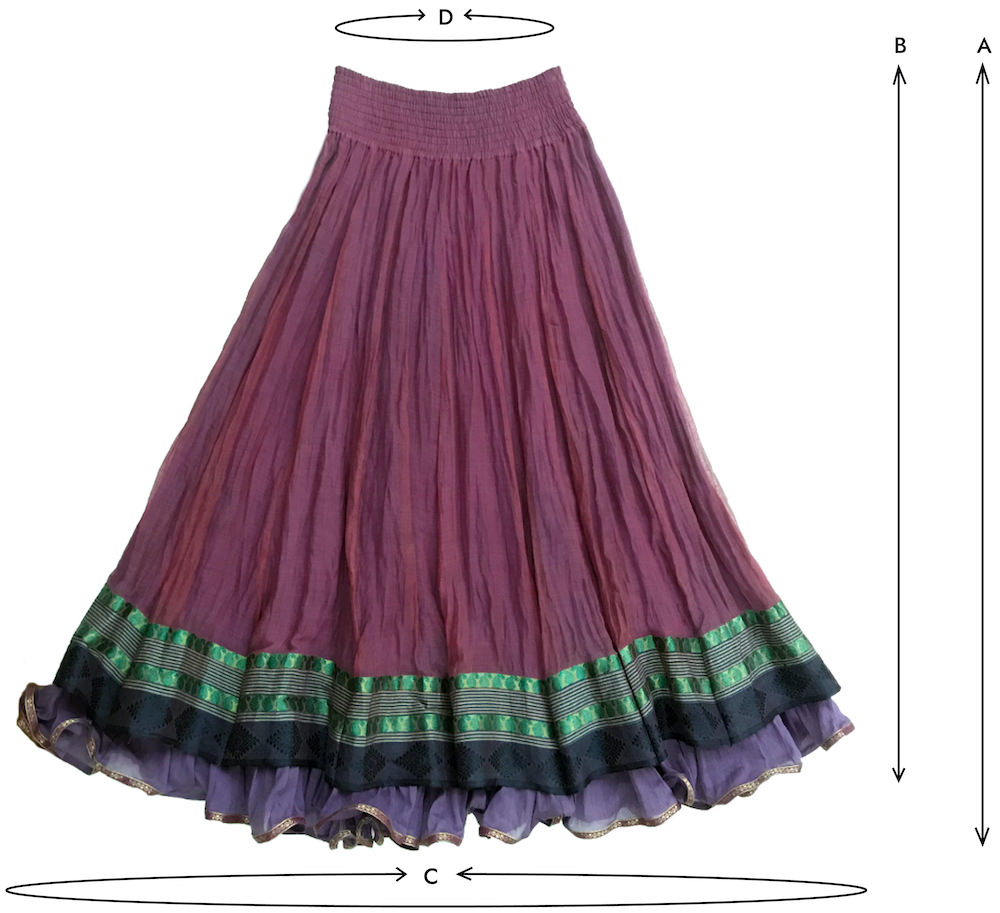
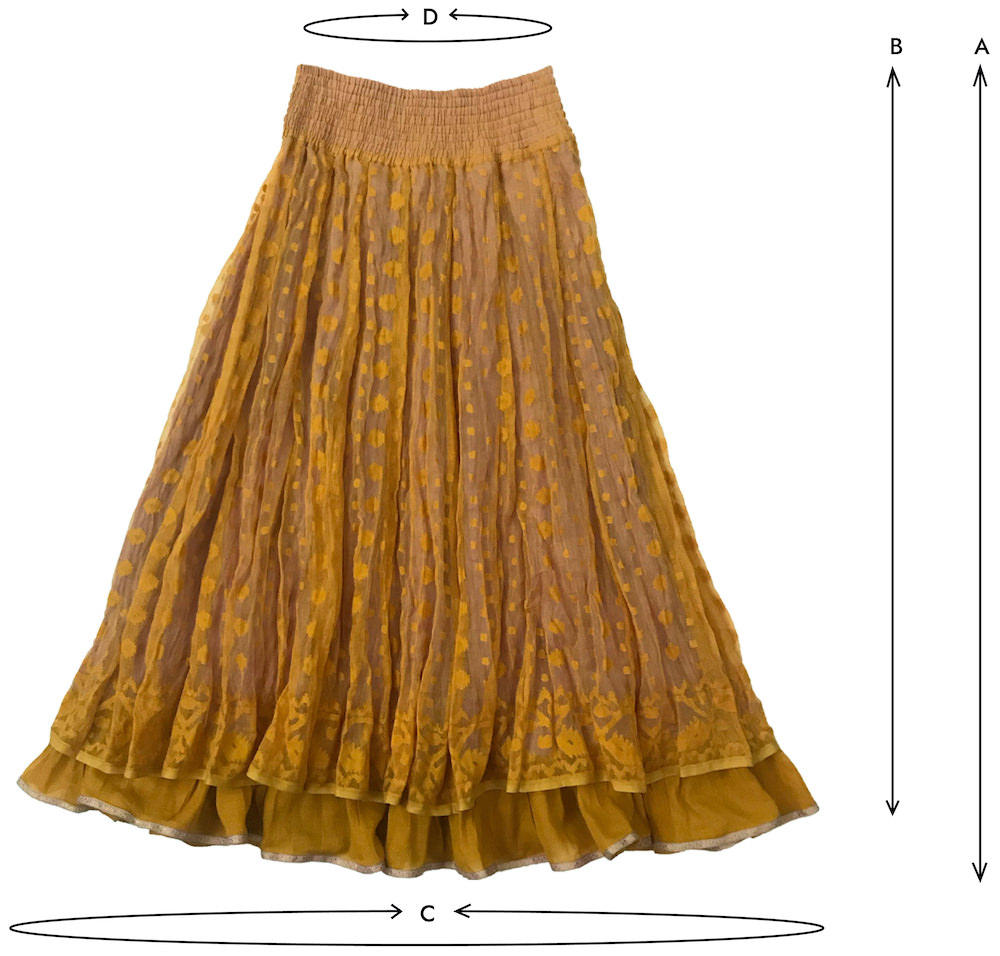
updated minuit product images.

diff --git a/products/artwear/naksha.html b/products/artwear/naksha.html
@@ -1,1 +1,1 @@
-<!doctype html><html lang="en"><head><meta charset="utf-8"><meta http-equiv="X-UA-Compatible" content="IE=edge"><meta name="viewport" content="width=device-width,initial-scale=1,shrink-to-fit=no"><meta http-equiv="cache-control" content="no-cache"><meta name="description" content="Our Art Wear Naksha Skirt. Each piece is one of a kind."><meta name="keywords" content="skirt, vintage sari border, fabric art, artwear, women's wear , Prema Florece Isaac, fashion designer, creator, stylist, Auroville, Pondicherry, atelier, ethical fashion, Jamdani, Tangail, Rangoli Atelier, since 1999, handloom, conscious fashion, sustainable fashion, handmadewithlove, indo-european fusion, slow fashion, distinctive designs, fusion flair, textile treasures, Couture-sur-Mesure, bespoke tailoring"><title>Artwear Naksha Skirt</title><link rel="stylesheet" href="https://indestructibletype.com/fonts/Jost.css" type="text/css" charset="utf-8"><link href="/shopper-1.0.3/css/theme.min.css" rel="stylesheet"><link href="/js/pfi20061302.css" rel="stylesheet"><script type="text/javascript" src="/js/pfiglobs20061802.js"></script><script type="text/javascript" src="/js/pfitmpl20062101.js"></script><script type="text/javascript" src="/nc/pfifx20.js"></script><script type="text/javascript" src="/js/pfishop20061800.js"></script><script type="text/javascript" src="/js/pfiprod20062103.js"></script><script src="https://code.jquery.com/jquery-3.5.1.min.js" integrity="sha256-9/aliU8dGd2tb6OSsuzixeV4y/faTqgFtohetphbbj0=" crossorigin="anonymous"></script><script async src="https://www.googletagmanager.com/gtag/js?id=UA-71666497-1"></script><script>function gtag(){dataLayer.push(arguments)}window.dataLayer=window.dataLayer||[],gtag("js",new Date),gtag("config","UA-71666497-1"),gtag("config","AW-861963921"),gtag("event","view_item");</script><script>!function(e,n,t,c,o,a,f){e.fbq||(o=e.fbq=function(){o.callMethod?o.callMethod.apply(o,arguments):o.queue.push(arguments)},e._fbq||(e._fbq=o),o.push=o,o.loaded=!0,o.version="2.0",o.queue=[],(a=n.createElement(t)).async=!0,a.src="//connect.facebook.net/en_US/fbevents.js",(f=n.getElementsByTagName(t)[0]).parentNode.insertBefore(a,f))}(window,document,"script"),fbq("init","1001909426539960"),fbq("track","PageView"),fbq("track","ViewContent");</script><link rel="stylesheet" href="/shopper-1.0.3/libs/flickity/dist/flickity.min.css"><link rel="stylesheet" href="/shopper-1.0.3/libs/@fancyapps/fancybox/dist/jquery.fancybox.min.css"><link rel="stylesheet" href="/shopper-1.0.3/libs/flickity-fade/flickity-fade.css"></head><body><script>function loadShopWithParam(){let n=new URLSearchParams(window.location.search);var o=n.has("cur")?n.get("cur"):null;return loadShop(o)}function onDocumentReady(){pageComponent.init(loadShopWithParam()),pageComponent.onReadyState()}function onSelectionChange(){pageComponent.onSelectionChange()}function onColourCategoryChange(n){pageComponent.onColourCategoryChange(n)}function onUnitChange(){pageComponent.onUnitChange(dimensioner)}function onSKUChange(n){pageComponent.onSKUChange(n)}</script><script>var pg_blacklist=["/products/artwear/naksha.html"];</script><script>document.write(getShopHeader());</script><script>document.write(pfiTopMenu("/products/artwear/naksha.html"));</script><div class="container"><script>document.write(getShopTop());</script><script type="text/javascript" src="skirts/nklist20062001.js"></script><script>const washcareHTML="<ul><li>Do not soak</li><li>Hand Wash</li><li>Mild Detergent</li><li>Do Not Bleach</li><li>Dry In Shade</li><li>No Need to Iron</li><li>Follow this tie-up procedure to maintain the crushed look-and-feel</li></ul>",shippingHTML=getShippingInfoUL(["If the item is in stock, it will be ready to ship within 1 business day of your order."]);function createSKUs(e){return{factory:e,data:[{SKU:"NKSHMU1501PP",text:"Minuit",image:"minuitL",pxWidth:"65"},{SKU:"NKSHMD1501PP",text:"Midi",image:"midiL1",pxWidth:"59.28"},{SKU:"NKSHMI1501PP",text:"Mini",image:"miniL2",pxWidth:"48.88"},{SKU:"NKSHMC1512PP",text:"Micro",image:"microL2",pxWidth:"47.58"}],getImage:function(e){var t=this.data[e];return{url:this.factory.base+t.image+".jpg"}}}}function createSKUSelector(e){return{skus:e,divId:"skuSelector",skuRadioName:"skuRadio",getSKUIdx:function(e){for(var t=0;t<this.skus.data.length;t++){if(this.skus.data[t].SKU==e)return t}return-1},getSelectedSKU:function(){return $("input[name='"+this.skuRadioName+"']:checked").val()},createSKUPanel:function(e,t){for(var a='<div class="mb-4 ml-n1">',r=0;r<this.skus.data.length;r++){var i=this.skus.data[r];a+='<div class="custom-control custom-control-inline custom-control-img"><input type="radio" onclick="onSKUChange(\''+i.SKU+'\')" class="custom-control-input" id="'+e+r+'" name="'+e+'" value="'+i.SKU+'"'+(t==r?" checked":"")+'><label class="custom-control-label" for="'+e+r+'" style="width: '+i.pxWidth+'px"><img class="img-fluid" src="'+this.skus.getImage(r).url+'"></label></div>'}return a+="</div>"},createDiv:function(e){var t='<form id="'+this.divId+'"><div class="row align-items-center">';return t+='<div class="col-12 text-center"><figure>'+this.createSKUPanel(this.skuRadioName,e)+"</figure></div></div></form>"}}}var carouselFn={NKSHMC1512PP:createSquareImageCarousel,NKSHMI1501PP:createSquareImageCarousel,NKSHMD1501PP:createSquareImageCarousel,NKSHMU1501PP:createPortraitImageCarousel};function createNakshaCardCreator(e){return{carouselFn:carouselFn[e],colClasses:"col-12 col-sm-6",createCard:function(e,t,a){var r='<div class="card mb-2">';return r+='<div class="row"><div class="col-12"><div class="form-row mb-4">'+this.carouselFn(e,t).createImageCarousel()+"</div></div></div>",r+='<div class="card-body px-0 pt-2 pb-4 text-center">',r+='<div class="card-subtitle mb-3"><span>'+a+"</span></div>",r+=createAddToCartButton(t),r+="</div></div>"},updateCard(e,t){this.carouselFn(e,t).update()},getEmptyStatusHTML:function(){return'<div class="alert alert-info" role="alert">There are no skirts that match your requirements.</div>'}}}function createUICFactory(e,t,a,r,i){var o=createSKUSelector(createSKUs(e));return{factory:e,colSelData:t,prodDataFactoryFn:a,skuSelector:o,browseInfo:r,sizingChart:i,createGenerator:function(e){var t=this.factory.createSKU(e),a=this.prodDataFactoryFn(e),r=createUIProductJSON(e,t.base,a,this.sizingChart[e]),i=createHTMLViewer(o.createDiv(o.getSKUIdx(e))),s=createHTMLViewer(r.skuInfo.garmentDetails),n=this.browseInfo.getStoryViewer();return createComponentGenerator(t,r,{createPre:function(){return i},create:function(){return createCatenatedViewer([s,n])}},this.colSelData,!1,createNakshaCardCreator(e))},updateURL:function(t){var a=e.encoder,r=e.urlModifier,i=a.toCode(t);r.updateURL(i)}}}const styDimensionsCm={NKSHMC1512PP:{Free:[52,45,240,72,90]},NKSHMI1501PP:{Free:[62,53,336,72,130]},NKSHMD1501PP:{Free:[81,72,376,72,130]},NKSHMU1501PP:{Free:[102,93,392,72,130]}},nkshSizing={NKSHMC1512PP:{sizeGeo:["US","UK","EU","IT","GR","JP","RU"],capGeo:["US","UK / AU / NZ","EU / FR","IT","DE","JP","RU"],chart:{Free:{US:[6,14],UK:[10,18],EU:[38,46],IT:[42,50],GR:[36,44],JP:[11,19],RU:[44,52]}}},NKSHMI1501PP:{sizeGeo:["US","UK","EU","IT","GR","JP","RU"],capGeo:["US","UK / AU / NZ","EU / FR","IT","DE","JP","RU"],chart:{Free:{US:[6,30],UK:[10,34],EU:[38,52],IT:[42,56],GR:[36,50],JP:[11,25],RU:[44,58]}}},NKSHMD1501PP:{sizeGeo:["US","UK","EU","IT","GR","JP","RU"],capGeo:["US","UK / AU / NZ","EU / FR","IT","DE","JP","RU"],chart:{Free:{US:[6,30],UK:[10,34],EU:[38,52],IT:[42,56],GR:[36,50],JP:[11,25],RU:[44,58]}}},NKSHMU1501PP:{sizeGeo:["US","UK","EU","IT","GR","JP","RU"],capGeo:["US","UK / AU / NZ","EU / FR","IT","DE","JP","RU"],chart:{Free:{US:[6,30],UK:[10,34],EU:[38,52],IT:[42,56],GR:[36,50],JP:[11,25],RU:[44,58]}}}};var nkshVariants={NKSHMC1512PP:{vid:"AW",images:["1.1","1.1a","1b","1c"]},NKSHMI1501PP:{vid:"AW",images:["1","1a","1b","1c"]},NKSHMD1501PP:{vid:"AW",images:["20","20a","20b","20c"]},NKSHMU1501PP:{vid:"AW",images:["8.1","8.1a","8b","8c"]}};function createProdData(e){return{imageFile:"sizing.jpg",dimensionNames:["A. Length","B. Outer Layer Length","C. Hem","D. Waist - Relaxed","D. Waist - Stretched"],dimensionsCm:styDimensionsCm[e],data:[nkshVariants[e]],sizes:["Free"],description:'<p>Almost from the <a href="/journey/salsa.html">earliest days of my atelier</a>, The Naksha skirt has been my signature piece of <a href="/journey/artwear.html">ArtWear</a>, and an evergreen favourite with clients. It is available in 4 lengths - Micro, Mini, Midi and Minuit.</p><p>As the name suggests, each ArtWear Naksha is a <strong>one-of-a-kind</strong> piece, <strong>unique and exclusive.</strong></p><p>The perfect fusion of traditional Tangail textile in a modern western silhouette, the Naksha is a multi-paneled, crushed skirt. Made of sheer 100% cotton fabrics, the skirt offers comfort, playfulness and complete freedom of movement. It suits every age group from teenagers (we even have a kids\' Naksha) to seniors. It can be worn with a variety of tops and t-shirts and is suitable for a range of occasions.</p><p>Each Artwear Naksha skirt is cut from a single Tangail / Jamdani sari. The skirt is lined with a harmonizing hue of translucent Voile de Coton to create my signature light-layer effect. It is made up of 16 fabric panels (12 on the Micro) which adds a lot of volume and flare. Because of the way the panels are cut, only 1 Minuit, Midi or Mini can be created from a single sari.</p><p>The waist band is made up of 9 rows of elastic (6 rows on the Micro). Because of the need for care while working with the delicate Tangail fabric, it can take a skilled tailor almost a full day of work to create this waistband. The result is a snug, comfortable fit, for a range of waist measurements.</p>',garmentDetails:""}}var browseInfo=createBrowseInfo([[[origin,"/journey/artwear.html"],[origin,"/journey/salsa.html"],[clients,"/people/resortwear.html"]],[[clients,"/people/artwear.html"],[clients,"/people/curators.html"]]],[1,1],pg_blacklist);pg_blacklist=pg_blacklist.concat(browseInfo.getFlattenedURLs());var nakshaFactory=createNakshaSKUsFactory("/products/artwear/skirts/"),uicFactory=createUICFactory(nakshaFactory,createColSelData("/products/artwear/skirts/",[{colourName:"Neutral",image:"neutral"},{colourName:"Purple to Yellow",image:"v-to-y"},{colourName:"Green to Violet",image:"g-to-i"}]),createProdData,browseInfo,nkshSizing),c=nakshaFactory.urlModifier.getCodeOrDefault();nakshaFactory.urlModifier.updateURL(c);var sku=nakshaFactory.encoder.toSKU(c),icGen=uicFactory.createGenerator(sku),itemsComponent=icGen.createUIC(loadShopWithParam()),itemCategorySelector=itemsComponent.itemCategorySelector,sizeSelector=itemsComponent.sizeSelector;const pageComponent=createUIPageComponent(getProductCatalog(),itemsComponent,uicFactory);var productComponent=itemsComponent.productComponent,dimensioner=productComponent.sizePanelr.dimensioner;$(document).ready(onDocumentReady),document.write(productComponent.getSizeModal());</script><section><div class="container"><script>document.write(productComponent.createProductDiv(0,0));</script></div></section><h6>Buy Now</h6><p>These are the individual skirts that are currently available for sale. Use the colour selector to look for specific matching colours.</p><form><div class="row align-items-center"><div class="col-12 col-md-4 text-center"><script>document.write(sizeSelector.createDiv(0));</script></div><div class="col-12 col-md-8 text-center"><script>document.write(itemCategorySelector.createDiv(itemCategorySelector.categories.getFirstNonEmptyIdx(),0));</script></div></div></form><script>document.write(itemsComponent.createDiv());</script><script>document.write(renderProductDetails("<p>"+icGen.prodJSON.skuInfo.description+"</p>",null,washcareHTML,shippingHTML));</script></div><script>document.write(storyBrowser(pg_blacklist));</script><script>document.write(botMenu("/products/artwear/naksha.html"));</script><script>document.write(scriptSrcs());</script><script src="/shopper-1.0.3/libs/@fancyapps/fancybox/dist/jquery.fancybox.min.js"></script><script src="/shopper-1.0.3/libs/flickity/dist/flickity.pkgd.min.js"></script><script src="/shopper-1.0.3/libs/flickity-fade/flickity-fade.js"></script><script src="/shopper-1.0.3/js/theme.min.js"></script></body></html>
+<!doctype html><html lang="en"><head><meta charset="utf-8"><meta http-equiv="X-UA-Compatible" content="IE=edge"><meta name="viewport" content="width=device-width,initial-scale=1,shrink-to-fit=no"><meta http-equiv="cache-control" content="no-cache"><meta name="description" content="Our Art Wear Naksha Skirt. Each piece is one of a kind."><meta name="keywords" content="skirt, vintage sari border, fabric art, artwear, women's wear , Prema Florece Isaac, fashion designer, creator, stylist, Auroville, Pondicherry, atelier, ethical fashion, Jamdani, Tangail, Rangoli Atelier, since 1999, handloom, conscious fashion, sustainable fashion, handmadewithlove, indo-european fusion, slow fashion, distinctive designs, fusion flair, textile treasures, Couture-sur-Mesure, bespoke tailoring"><title>Artwear Naksha Skirt</title><link rel="stylesheet" href="https://indestructibletype.com/fonts/Jost.css" type="text/css" charset="utf-8"><link href="/shopper-1.0.3/css/theme.min.css" rel="stylesheet"><link href="/js/pfi20061302.css" rel="stylesheet"><script type="text/javascript" src="/js/pfiglobs20061802.js"></script><script type="text/javascript" src="/js/pfitmpl20062101.js"></script><script type="text/javascript" src="/nc/pfifx20.js"></script><script type="text/javascript" src="/js/pfishop20061800.js"></script><script type="text/javascript" src="/js/pfiprod20062103.js"></script><script src="https://code.jquery.com/jquery-3.5.1.min.js" integrity="sha256-9/aliU8dGd2tb6OSsuzixeV4y/faTqgFtohetphbbj0=" crossorigin="anonymous"></script><script async src="https://www.googletagmanager.com/gtag/js?id=UA-71666497-1"></script><script>function gtag(){dataLayer.push(arguments)}window.dataLayer=window.dataLayer||[],gtag("js",new Date),gtag("config","UA-71666497-1"),gtag("config","AW-861963921"),gtag("event","view_item");</script><script>!function(e,n,t,c,o,a,f){e.fbq||(o=e.fbq=function(){o.callMethod?o.callMethod.apply(o,arguments):o.queue.push(arguments)},e._fbq||(e._fbq=o),o.push=o,o.loaded=!0,o.version="2.0",o.queue=[],(a=n.createElement(t)).async=!0,a.src="//connect.facebook.net/en_US/fbevents.js",(f=n.getElementsByTagName(t)[0]).parentNode.insertBefore(a,f))}(window,document,"script"),fbq("init","1001909426539960"),fbq("track","PageView"),fbq("track","ViewContent");</script><link rel="stylesheet" href="/shopper-1.0.3/libs/flickity/dist/flickity.min.css"><link rel="stylesheet" href="/shopper-1.0.3/libs/@fancyapps/fancybox/dist/jquery.fancybox.min.css"><link rel="stylesheet" href="/shopper-1.0.3/libs/flickity-fade/flickity-fade.css"></head><body><script>function loadShopWithParam(){let n=new URLSearchParams(window.location.search);var o=n.has("cur")?n.get("cur"):null;return loadShop(o)}function onDocumentReady(){pageComponent.init(loadShopWithParam()),pageComponent.onReadyState()}function onSelectionChange(){pageComponent.onSelectionChange()}function onColourCategoryChange(n){pageComponent.onColourCategoryChange(n)}function onUnitChange(){pageComponent.onUnitChange(dimensioner)}function onSKUChange(n){pageComponent.onSKUChange(n)}</script><script>var pg_blacklist=["/products/artwear/naksha.html"];</script><script>document.write(getShopHeader());</script><script>document.write(pfiTopMenu("/products/artwear/naksha.html"));</script><div class="container"><script>document.write(getShopTop());</script><script type="text/javascript" src="skirts/nklist20062900.js"></script><script>const washcareHTML="<ul><li>Do not soak</li><li>Hand Wash</li><li>Mild Detergent</li><li>Do Not Bleach</li><li>Dry In Shade</li><li>No Need to Iron</li><li>Follow this tie-up procedure to maintain the crushed look-and-feel</li></ul>",shippingHTML=getShippingInfoUL(["If the item is in stock, it will be ready to ship within 1 business day of your order."]);function createSKUs(e){return{factory:e,data:[{SKU:"NKSHMU1501PP",text:"Minuit",image:"minuitL1",pxWidth:"65"},{SKU:"NKSHMD1501PP",text:"Midi",image:"midiL1",pxWidth:"59.28"},{SKU:"NKSHMI1501PP",text:"Mini",image:"miniL2",pxWidth:"48.88"},{SKU:"NKSHMC1512PP",text:"Micro",image:"microL2",pxWidth:"47.58"}],getImage:function(e){var t=this.data[e];return{url:this.factory.base+t.image+".jpg"}}}}function createSKUSelector(e){return{skus:e,divId:"skuSelector",skuRadioName:"skuRadio",getSKUIdx:function(e){for(var t=0;t<this.skus.data.length;t++){if(this.skus.data[t].SKU==e)return t}return-1},getSelectedSKU:function(){return $("input[name='"+this.skuRadioName+"']:checked").val()},createSKUPanel:function(e,t){for(var a='<div class="mb-4 ml-n1">',r=0;r<this.skus.data.length;r++){var i=this.skus.data[r];a+='<div class="custom-control custom-control-inline custom-control-img"><input type="radio" onclick="onSKUChange(\''+i.SKU+'\')" class="custom-control-input" id="'+e+r+'" name="'+e+'" value="'+i.SKU+'"'+(t==r?" checked":"")+'><label class="custom-control-label" for="'+e+r+'" style="width: '+i.pxWidth+'px"><img class="img-fluid" src="'+this.skus.getImage(r).url+'"></label></div>'}return a+="</div>"},createDiv:function(e){var t='<form id="'+this.divId+'"><div class="row align-items-center">';return t+='<div class="col-12 text-center"><figure>'+this.createSKUPanel(this.skuRadioName,e)+"</figure></div></div></form>"}}}var carouselFn={NKSHMC1512PP:createSquareImageCarousel,NKSHMI1501PP:createSquareImageCarousel,NKSHMD1501PP:createSquareImageCarousel,NKSHMU1501PP:createPortraitImageCarousel};function createNakshaCardCreator(e){return{carouselFn:carouselFn[e],colClasses:"col-12 col-sm-6",createCard:function(e,t,a){var r='<div class="card mb-2">';return r+='<div class="row"><div class="col-12"><div class="form-row mb-4">'+this.carouselFn(e,t).createImageCarousel()+"</div></div></div>",r+='<div class="card-body px-0 pt-2 pb-4 text-center">',r+='<div class="card-subtitle mb-3"><span>'+a+"</span></div>",r+=createAddToCartButton(t),r+="</div></div>"},updateCard(e,t){this.carouselFn(e,t).update()},getEmptyStatusHTML:function(){return'<div class="alert alert-info" role="alert">There are no skirts that match your requirements.</div>'}}}function createUICFactory(e,t,a,r,i){var o=createSKUSelector(createSKUs(e));return{factory:e,colSelData:t,prodDataFactoryFn:a,skuSelector:o,browseInfo:r,sizingChart:i,createGenerator:function(e){var t=this.factory.createSKU(e),a=this.prodDataFactoryFn(e),r=createUIProductJSON(e,t.base,a,this.sizingChart[e]),i=createHTMLViewer(o.createDiv(o.getSKUIdx(e))),s=createHTMLViewer(r.skuInfo.garmentDetails),n=this.browseInfo.getStoryViewer();return createComponentGenerator(t,r,{createPre:function(){return i},create:function(){return createCatenatedViewer([s,n])}},this.colSelData,!1,createNakshaCardCreator(e))},updateURL:function(t){var a=e.encoder,r=e.urlModifier,i=a.toCode(t);r.updateURL(i)}}}const styDimensionsCm={NKSHMC1512PP:{Free:[52,45,240,72,90]},NKSHMI1501PP:{Free:[62,53,336,72,130]},NKSHMD1501PP:{Free:[81,72,376,72,130]},NKSHMU1501PP:{Free:[102,93,392,72,130]}},nkshSizing={NKSHMC1512PP:{sizeGeo:["US","UK","EU","IT","GR","JP","RU"],capGeo:["US","UK / AU / NZ","EU / FR","IT","DE","JP","RU"],chart:{Free:{US:[6,14],UK:[10,18],EU:[38,46],IT:[42,50],GR:[36,44],JP:[11,19],RU:[44,52]}}},NKSHMI1501PP:{sizeGeo:["US","UK","EU","IT","GR","JP","RU"],capGeo:["US","UK / AU / NZ","EU / FR","IT","DE","JP","RU"],chart:{Free:{US:[6,30],UK:[10,34],EU:[38,52],IT:[42,56],GR:[36,50],JP:[11,25],RU:[44,58]}}},NKSHMD1501PP:{sizeGeo:["US","UK","EU","IT","GR","JP","RU"],capGeo:["US","UK / AU / NZ","EU / FR","IT","DE","JP","RU"],chart:{Free:{US:[6,30],UK:[10,34],EU:[38,52],IT:[42,56],GR:[36,50],JP:[11,25],RU:[44,58]}}},NKSHMU1501PP:{sizeGeo:["US","UK","EU","IT","GR","JP","RU"],capGeo:["US","UK / AU / NZ","EU / FR","IT","DE","JP","RU"],chart:{Free:{US:[6,30],UK:[10,34],EU:[38,52],IT:[42,56],GR:[36,50],JP:[11,25],RU:[44,58]}}}};var nkshVariants={NKSHMC1512PP:{vid:"AW",images:["1.1","1.1a","1b","1c"]},NKSHMI1501PP:{vid:"AW",images:["1","1a","1b","1c"]},NKSHMD1501PP:{vid:"AW",images:["20","20a","20b","20c"]},NKSHMU1501PP:{vid:"AW",images:["7.2","7.2a","7b","7c"]}};function createProdData(e){return{imageFile:"sizing.jpg",dimensionNames:["A. Length","B. Outer Layer Length","C. Hem","D. Waist - Relaxed","D. Waist - Stretched"],dimensionsCm:styDimensionsCm[e],data:[nkshVariants[e]],sizes:["Free"],description:'<p>Almost from the <a href="/journey/salsa.html">earliest days of my atelier</a>, The Naksha skirt has been my signature piece of <a href="/journey/artwear.html">ArtWear</a>, and an evergreen favourite with clients. It is available in 4 lengths - Micro, Mini, Midi and Minuit.</p><p>As the name suggests, each ArtWear Naksha is a <strong>one-of-a-kind</strong> piece, <strong>unique and exclusive.</strong></p><p>The perfect fusion of traditional Tangail textile in a modern western silhouette, the Naksha is a multi-paneled, crushed skirt. Made of sheer 100% cotton fabrics, the skirt offers comfort, playfulness and complete freedom of movement. It suits every age group from teenagers (we even have a kids\' Naksha) to seniors. It can be worn with a variety of tops and t-shirts and is suitable for a range of occasions.</p><p>Each Artwear Naksha skirt is cut from a single Tangail / Jamdani sari. The skirt is lined with a harmonizing hue of translucent Voile de Coton to create my signature light-layer effect. It is made up of 16 fabric panels (12 on the Micro) which adds a lot of volume and flare. Because of the way the panels are cut, only 1 Minuit, Midi or Mini can be created from a single sari.</p><p>The waist band is made up of 9 rows of elastic (6 rows on the Micro). Because of the need for care while working with the delicate Tangail fabric, it can take a skilled tailor almost a full day of work to create this waistband. The result is a snug, comfortable fit, for a range of waist measurements.</p>',garmentDetails:""}}var browseInfo=createBrowseInfo([[[origin,"/journey/artwear.html"],[origin,"/journey/salsa.html"],[clients,"/people/resortwear.html"]],[[clients,"/people/artwear.html"],[clients,"/people/curators.html"]]],[1,1],pg_blacklist);pg_blacklist=pg_blacklist.concat(browseInfo.getFlattenedURLs());var nakshaFactory=createNakshaSKUsFactory("/products/artwear/skirts/"),uicFactory=createUICFactory(nakshaFactory,createColSelData("/products/artwear/skirts/",[{colourName:"Neutral",image:"neutral"},{colourName:"Purple to Yellow",image:"v-to-y"},{colourName:"Green to Violet",image:"g-to-i"}]),createProdData,browseInfo,nkshSizing),c=nakshaFactory.urlModifier.getCodeOrDefault();nakshaFactory.urlModifier.updateURL(c);var sku=nakshaFactory.encoder.toSKU(c),icGen=uicFactory.createGenerator(sku),itemsComponent=icGen.createUIC(loadShopWithParam()),itemCategorySelector=itemsComponent.itemCategorySelector,sizeSelector=itemsComponent.sizeSelector;const pageComponent=createUIPageComponent(getProductCatalog(),itemsComponent,uicFactory);var productComponent=itemsComponent.productComponent,dimensioner=productComponent.sizePanelr.dimensioner;$(document).ready(onDocumentReady),document.write(productComponent.getSizeModal());</script><section><div class="container"><script>document.write(productComponent.createProductDiv(0,0));</script></div></section><h6>Buy Now</h6><p>These are the individual skirts that are currently available for sale. Use the colour selector to look for specific matching colours.</p><form><div class="row align-items-center"><div class="col-12 col-md-4 text-center"><script>document.write(sizeSelector.createDiv(0));</script></div><div class="col-12 col-md-8 text-center"><script>document.write(itemCategorySelector.createDiv(itemCategorySelector.categories.getFirstNonEmptyIdx(),0));</script></div></div></form><script>document.write(itemsComponent.createDiv());</script><script>document.write(renderProductDetails("<p>"+icGen.prodJSON.skuInfo.description+"</p>",null,washcareHTML,shippingHTML));</script></div><script>document.write(storyBrowser(pg_blacklist));</script><script>document.write(botMenu("/products/artwear/naksha.html"));</script><script>document.write(scriptSrcs());</script><script src="/shopper-1.0.3/libs/@fancyapps/fancybox/dist/jquery.fancybox.min.js"></script><script src="/shopper-1.0.3/libs/flickity/dist/flickity.pkgd.min.js"></script><script src="/shopper-1.0.3/libs/flickity-fade/flickity-fade.js"></script><script src="/shopper-1.0.3/js/theme.min.js"></script></body></html>

diff --git a/products/artwear/skirts/nklist20062900.js b/products/artwear/skirts/nklist20062900.js
@@ -87,7 +87,7 @@ var listData = [
 [4, ['4','4a'],'#F1E04E','Energy Yellow',true],
 [5, ['5','5a'],'#D26690','Hopbush',true],
 [6, ['6','6a'],'#D96A56','Terracotta',true],
-[7, ['7.1','7.1a'],'#D29E59','Di Serria',true],
+[7, ['7.2','7.2a'],'#D29E59','Di Serria',true],
 [8, ['8.1','8.1a'],'#498640','Fern Green',true],
 [9, ['9.1','9.1a'],'#C97983','Old Rose',true],
 ];
